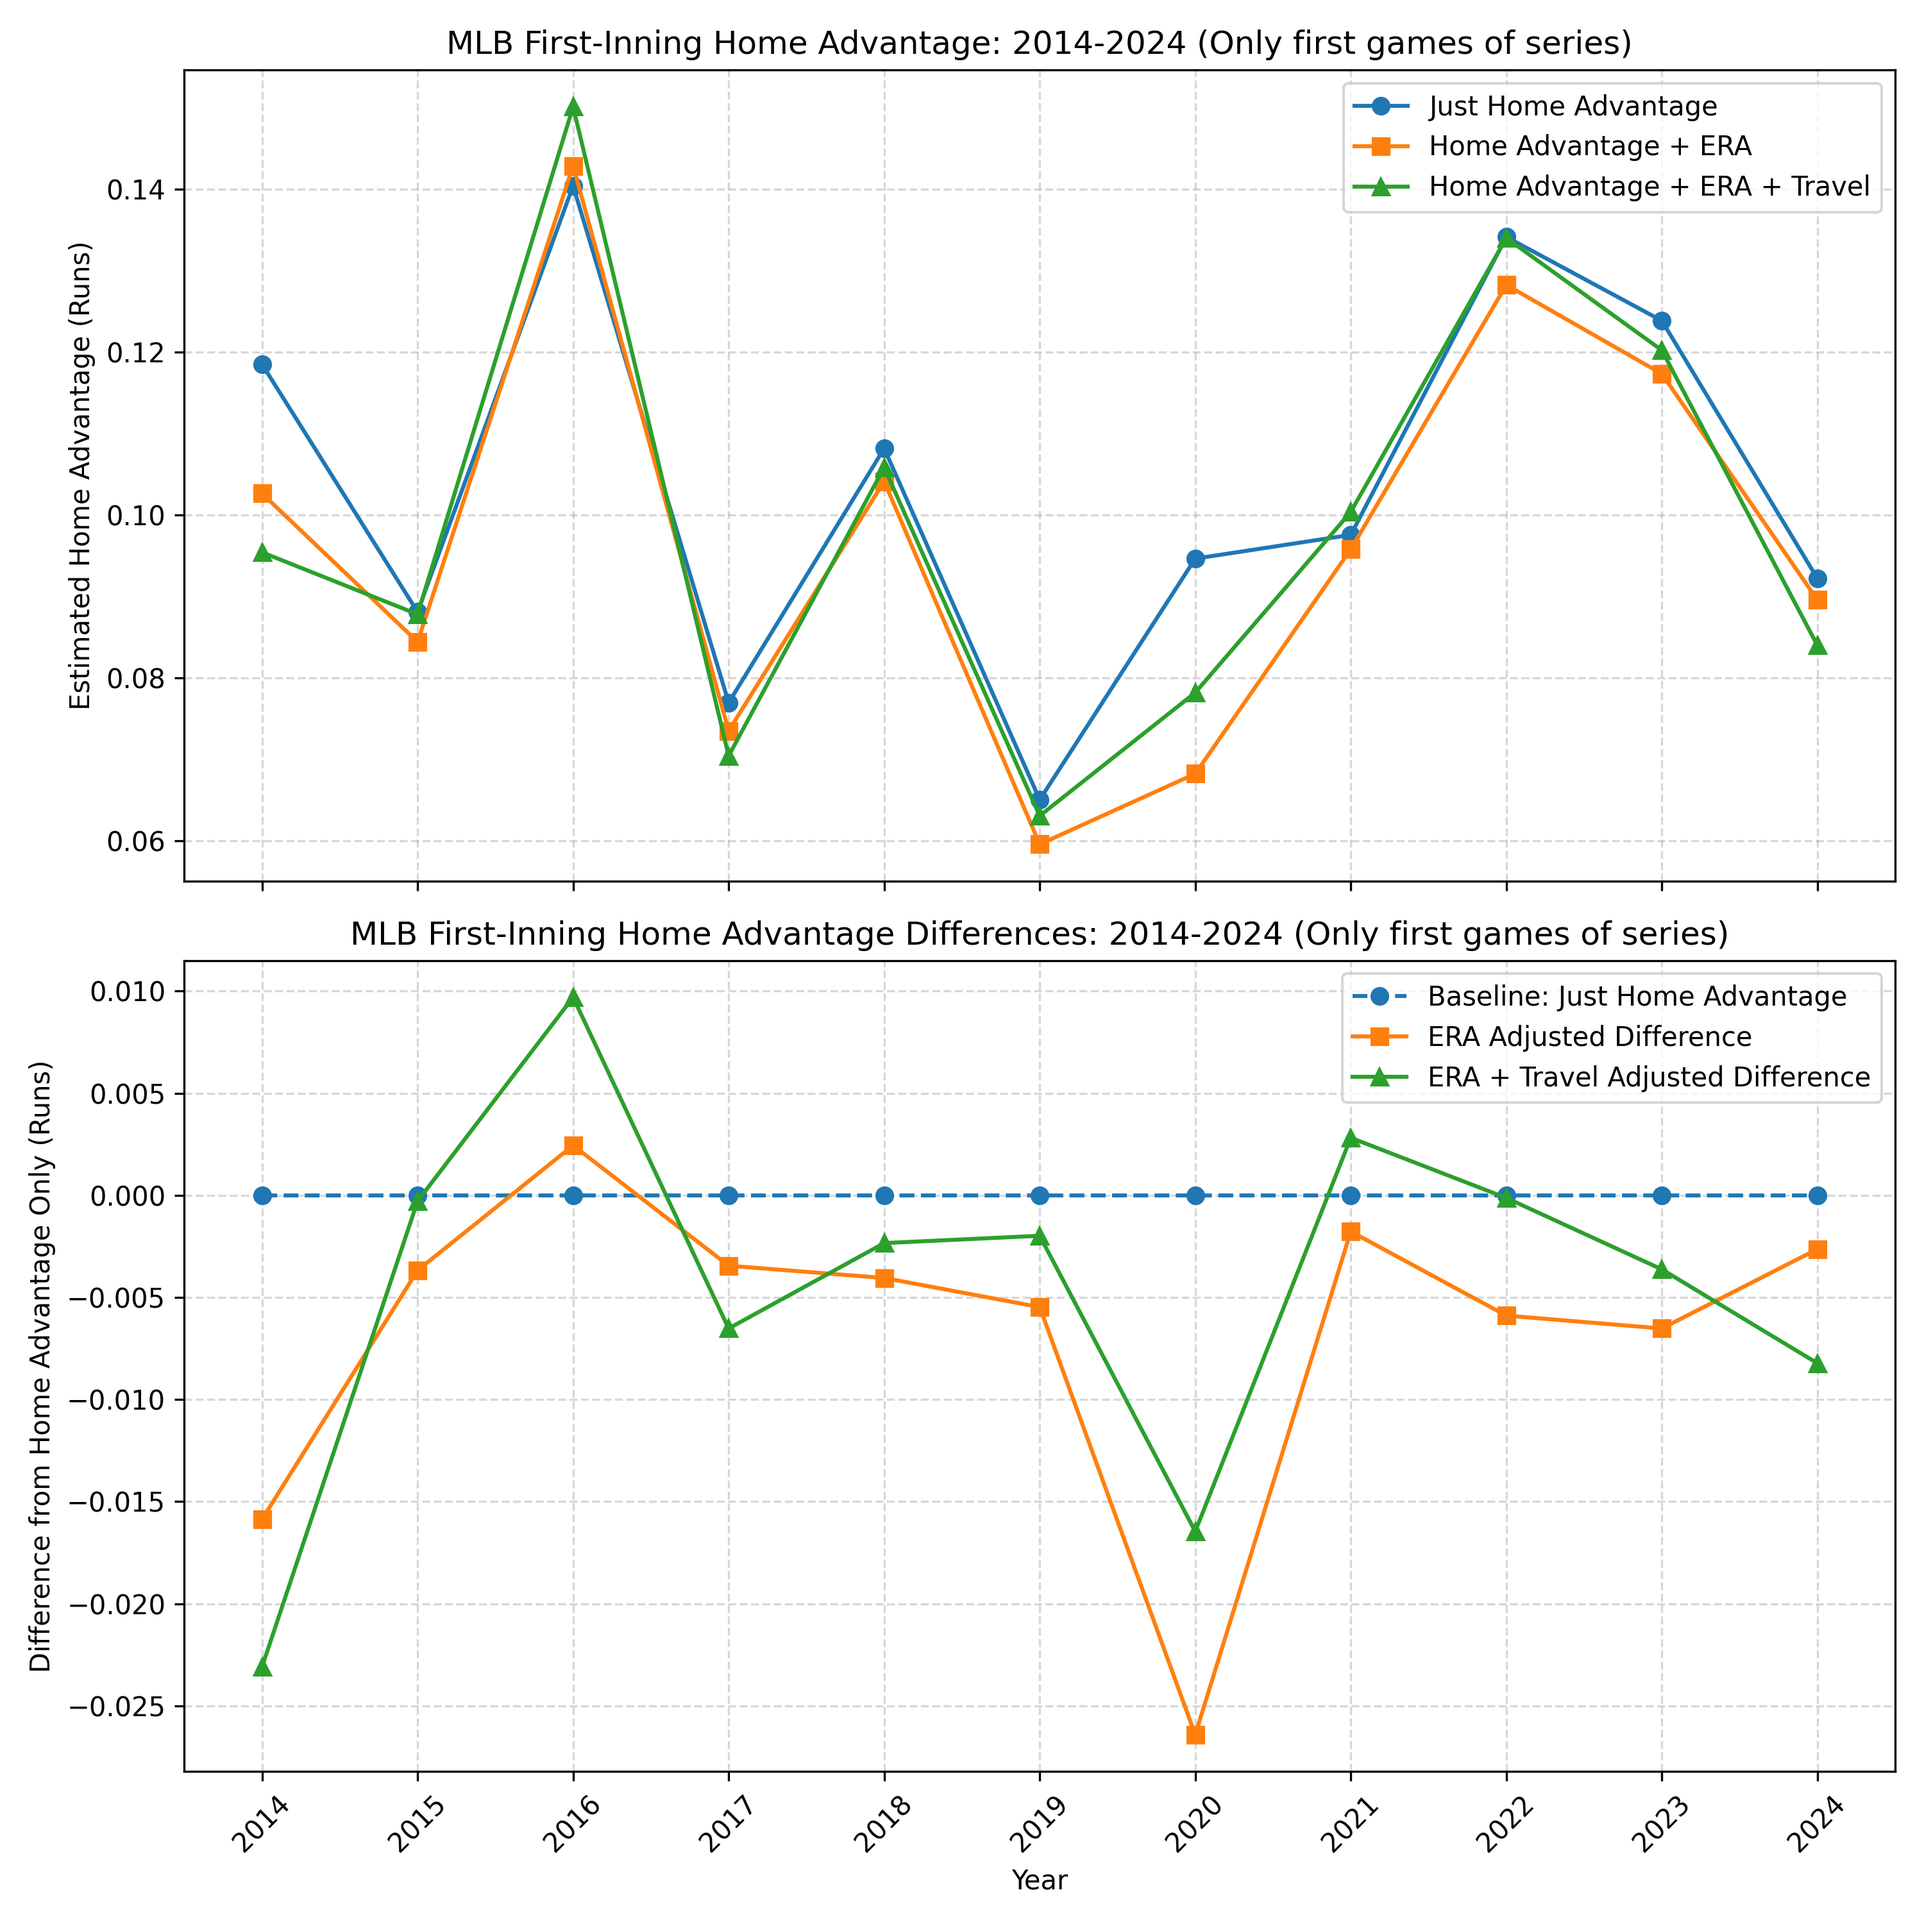
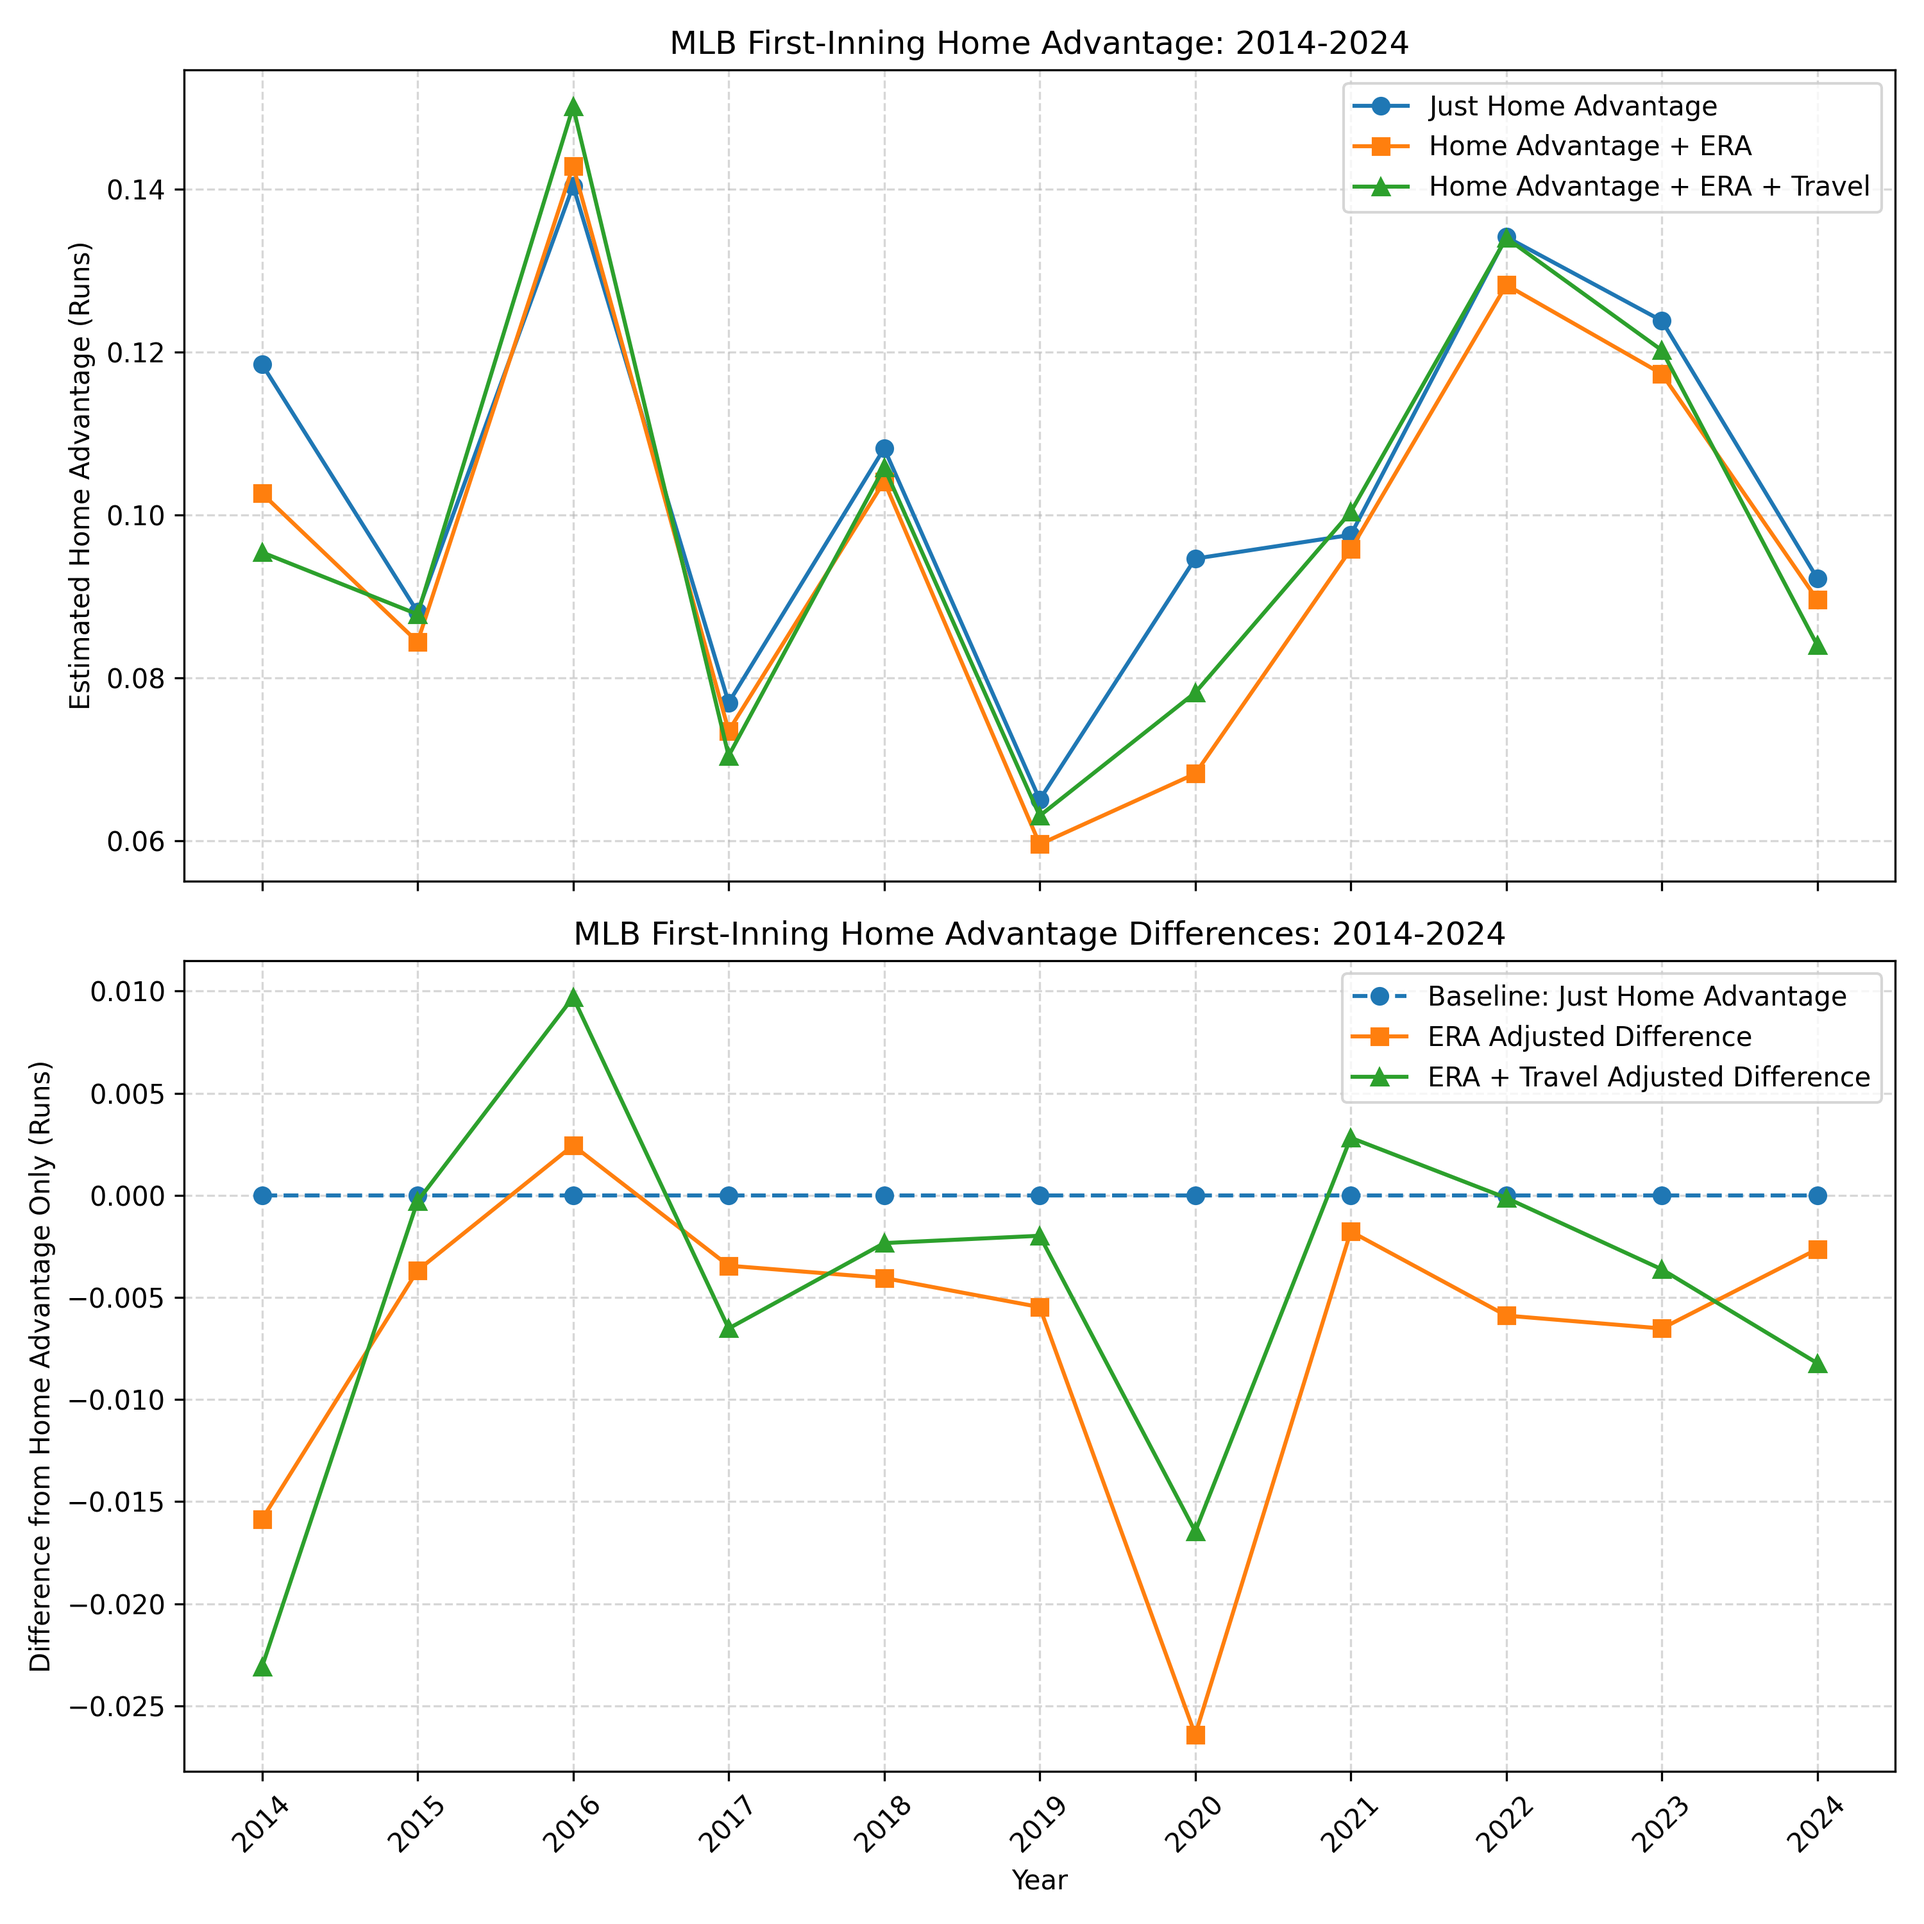
edited mistake in visualization for first inning home advantage

Changed region(s): [[0.186, 0.465, 0.899, 0.496], [0.248, 0.0, 0.837, 0.031]]

diff --git a/visualize_three.py b/visualize_three.py
@@ -35,7 +35,7 @@ axes[0].plot(df_plot['year'], df_plot['home_advantage_only'], marker='o', label=
 axes[0].plot(df_plot['year'], df_plot['home_advantage_era'], marker='s', label='Home Advantage + ERA')
 axes[0].plot(df_plot['year'], df_plot['home_advantage_era_travel'], marker='^', label='Home Advantage + ERA + Travel')
 axes[0].set_ylabel("Estimated Home Advantage (Runs)")
-axes[0].set_title("MLB First-Inning Home Advantage: 2014-2024 (Only first games of series)")
+axes[0].set_title("MLB First-Inning Home Advantage: 2014-2024")
 axes[0].grid(True, linestyle='--', alpha=0.5)
 axes[0].legend()
 
@@ -45,7 +45,7 @@ axes[1].plot(df_plot['year'], df_plot['era_diff'], marker='s', label='ERA Adjust
 axes[1].plot(df_plot['year'], df_plot['era_travel_diff'], marker='^', label='ERA + Travel Adjusted Difference')
 axes[1].set_xlabel("Year")
 axes[1].set_ylabel("Difference from Home Advantage Only (Runs)")
-axes[1].set_title("MLB First-Inning Home Advantage Differences: 2014-2024 (Only first games of series)")
+axes[1].set_title("MLB First-Inning Home Advantage Differences: 2014-2024")
 axes[1].grid(True, linestyle='--', alpha=0.5)
 axes[1].legend()
 
